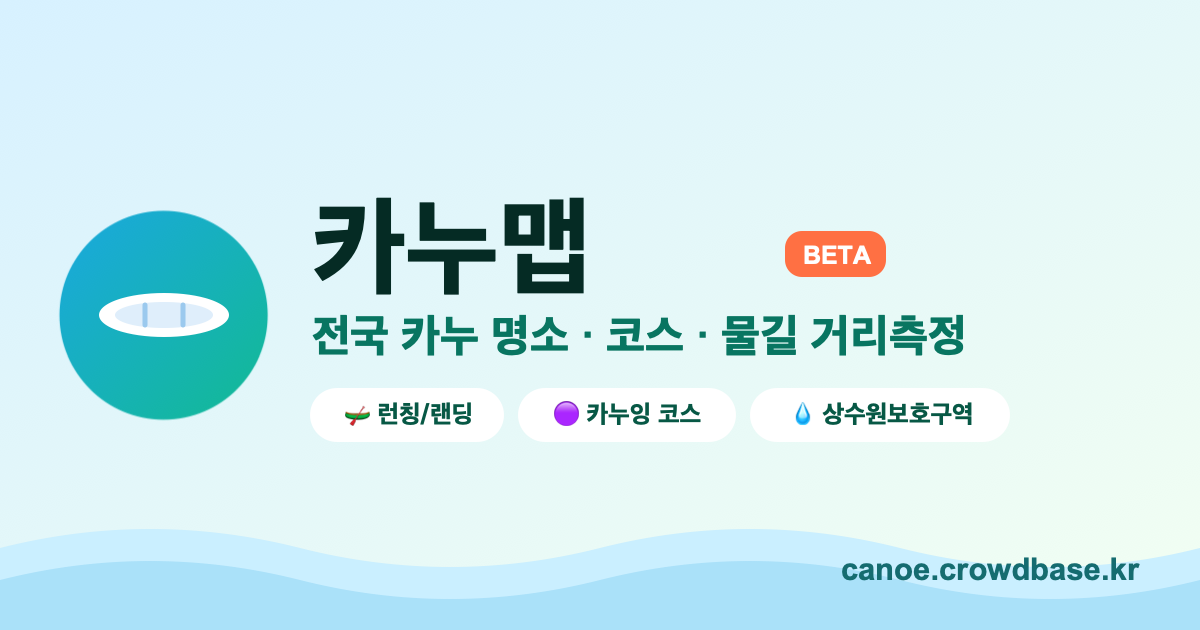
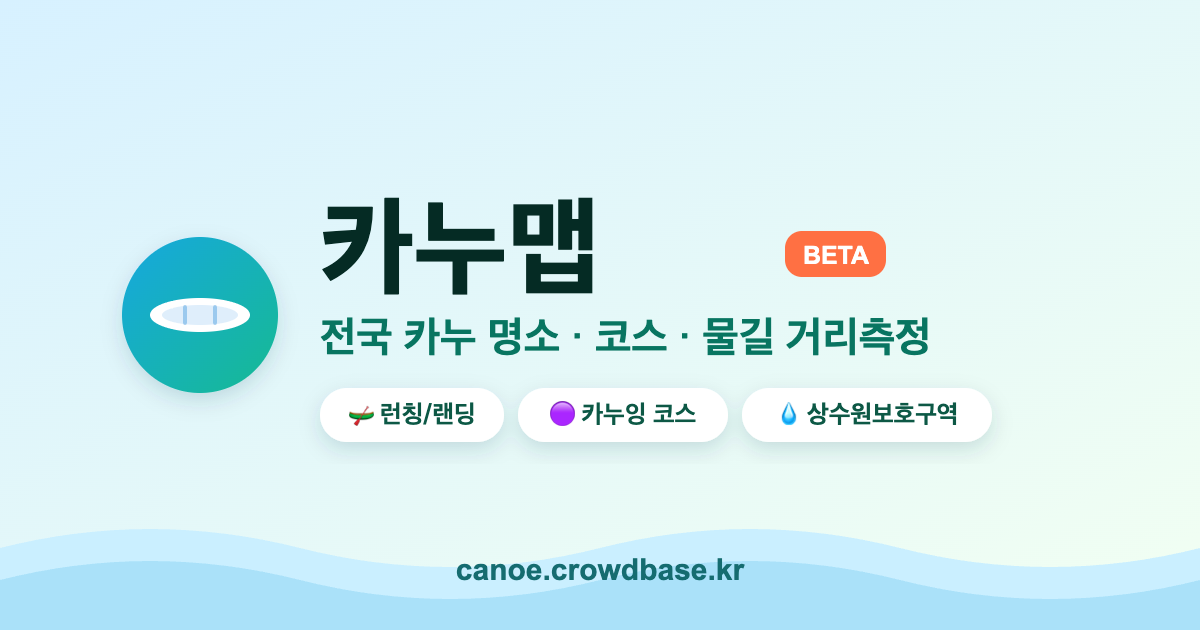
Keep default share card inside crop-safe area

diff --git a/tour/index.html b/tour/index.html
@@ -8,13 +8,13 @@
 <meta property="og:url" content="https://tour.crowdbase.kr/">
 <meta property="og:title" content="카누맵 투어">
 <meta property="og:description" content="전국 카누 명소·런칭/랜딩·카누잉 코스·물길 거리측정. 카누 타는 곳을 한눈에.">
-<meta property="og:image" content="https://canoe.crowdbase.kr/og.png">
+<meta property="og:image" content="https://canoe.crowdbase.kr/og.png?v=20260928-safe">
 <meta property="og:image:width" content="1200">
 <meta property="og:image:height" content="630">
 <meta name="twitter:card" content="summary_large_image">
 <meta name="twitter:title" content="카누맵 투어">
 <meta name="twitter:description" content="전국 카누 명소·코스·물길 거리측정">
-<meta name="twitter:image" content="https://canoe.crowdbase.kr/og.png">
+<meta name="twitter:image" content="https://canoe.crowdbase.kr/og.png?v=20260928-safe">
 <meta name="theme-color" content="#0f6174">
 <link rel="manifest" href="./manifest.webmanifest">
 <script async src="https://www.googletagmanager.com/gtag/js?id=G-W75JHWTDYS"></script>

diff --git a/index.html b/index.html
@@ -8,13 +8,13 @@
 <meta property="og:url" content="https://canoe.crowdbase.kr/">
 <meta property="og:title" content="카누맵">
 <meta property="og:description" content="전국 카누 명소·런칭/랜딩·카누잉 코스·물길 거리측정. 카누 타는 곳을 한눈에.">
-<meta property="og:image" content="https://canoe.crowdbase.kr/og.png">
+<meta property="og:image" content="https://canoe.crowdbase.kr/og.png?v=20260928-safe">
 <meta property="og:image:width" content="1200">
 <meta property="og:image:height" content="630">
 <meta name="twitter:card" content="summary_large_image">
 <meta name="twitter:title" content="카누맵">
 <meta name="twitter:description" content="전국 카누 명소·코스·물길 거리측정">
-<meta name="twitter:image" content="https://canoe.crowdbase.kr/og.png">
+<meta name="twitter:image" content="https://canoe.crowdbase.kr/og.png?v=20260928-safe">
 <meta name="theme-color" content="#0f6174">
 <link rel="manifest" href="./manifest.webmanifest">
 <script async src="https://www.googletagmanager.com/gtag/js?id=G-W75JHWTDYS"></script>

diff --git a/map.html b/map.html
@@ -8,13 +8,13 @@
 <meta property="og:url" content="https://canoe.crowdbase.kr/">
 <meta property="og:title" content="카누맵">
 <meta property="og:description" content="전국 카누 명소·런칭/랜딩·카누잉 코스·물길 거리측정. 카누 타는 곳을 한눈에.">
-<meta property="og:image" content="https://canoe.crowdbase.kr/og.png">
+<meta property="og:image" content="https://canoe.crowdbase.kr/og.png?v=20260928-safe">
 <meta property="og:image:width" content="1200">
 <meta property="og:image:height" content="630">
 <meta name="twitter:card" content="summary_large_image">
 <meta name="twitter:title" content="카누맵">
 <meta name="twitter:description" content="전국 카누 명소·코스·물길 거리측정">
-<meta name="twitter:image" content="https://canoe.crowdbase.kr/og.png">
+<meta name="twitter:image" content="https://canoe.crowdbase.kr/og.png?v=20260928-safe">
 <meta name="theme-color" content="#0f6174">
 <link rel="manifest" href="./manifest.webmanifest">
 <script async src="https://www.googletagmanager.com/gtag/js?id=G-W75JHWTDYS"></script>

diff --git a/tools/build_map.py b/tools/build_map.py
@@ -158,13 +158,13 @@ HTML = r"""<!DOCTYPE html>
 <meta property="og:url" content="https://canoe.crowdbase.kr/">
 <meta property="og:title" content="카누맵">
 <meta property="og:description" content="전국 카누 명소·런칭/랜딩·카누잉 코스·물길 거리측정. 카누 타는 곳을 한눈에.">
-<meta property="og:image" content="https://canoe.crowdbase.kr/og.png">
+<meta property="og:image" content="https://canoe.crowdbase.kr/og.png?v=20260928-safe">
 <meta property="og:image:width" content="1200">
 <meta property="og:image:height" content="630">
 <meta name="twitter:card" content="summary_large_image">
 <meta name="twitter:title" content="카누맵">
 <meta name="twitter:description" content="전국 카누 명소·코스·물길 거리측정">
-<meta name="twitter:image" content="https://canoe.crowdbase.kr/og.png">
+<meta name="twitter:image" content="https://canoe.crowdbase.kr/og.png?v=20260928-safe">
 <meta name="theme-color" content="#0f6174">
 <link rel="manifest" href="./manifest.webmanifest">
 __GTAG__

diff --git a/tests/test_branding_and_japan_lakes.py b/tests/test_branding_and_japan_lakes.py
@@ -24,6 +24,12 @@ def main():
     assert "cafe.naver.com/mytalon" not in source + index + tour
     assert '<h1>카누맵<span class="beta-tag">BETA</span></h1>' in index
     assert '<h1>카누맵 투어<span class="beta-tag">BETA</span></h1>' in tour
+    assert 'https://canoe.crowdbase.kr/og.png?v=20260928-safe' in index
+
+    og_card = (ROOT / "og-card.svg").read_text(encoding="utf-8")
+    assert 'x=120..1080 안전영역' in og_card
+    assert '<circle cx="200" cy="315" r="78"' in og_card
+    assert '<text x="600" y="580" text-anchor="middle"' in og_card
 
     assert lakes["source"] == "https://www.gsi.go.jp/kankyochiri/koshouchousa-list.html"
     assert len(lakes["items"]) >= 70
